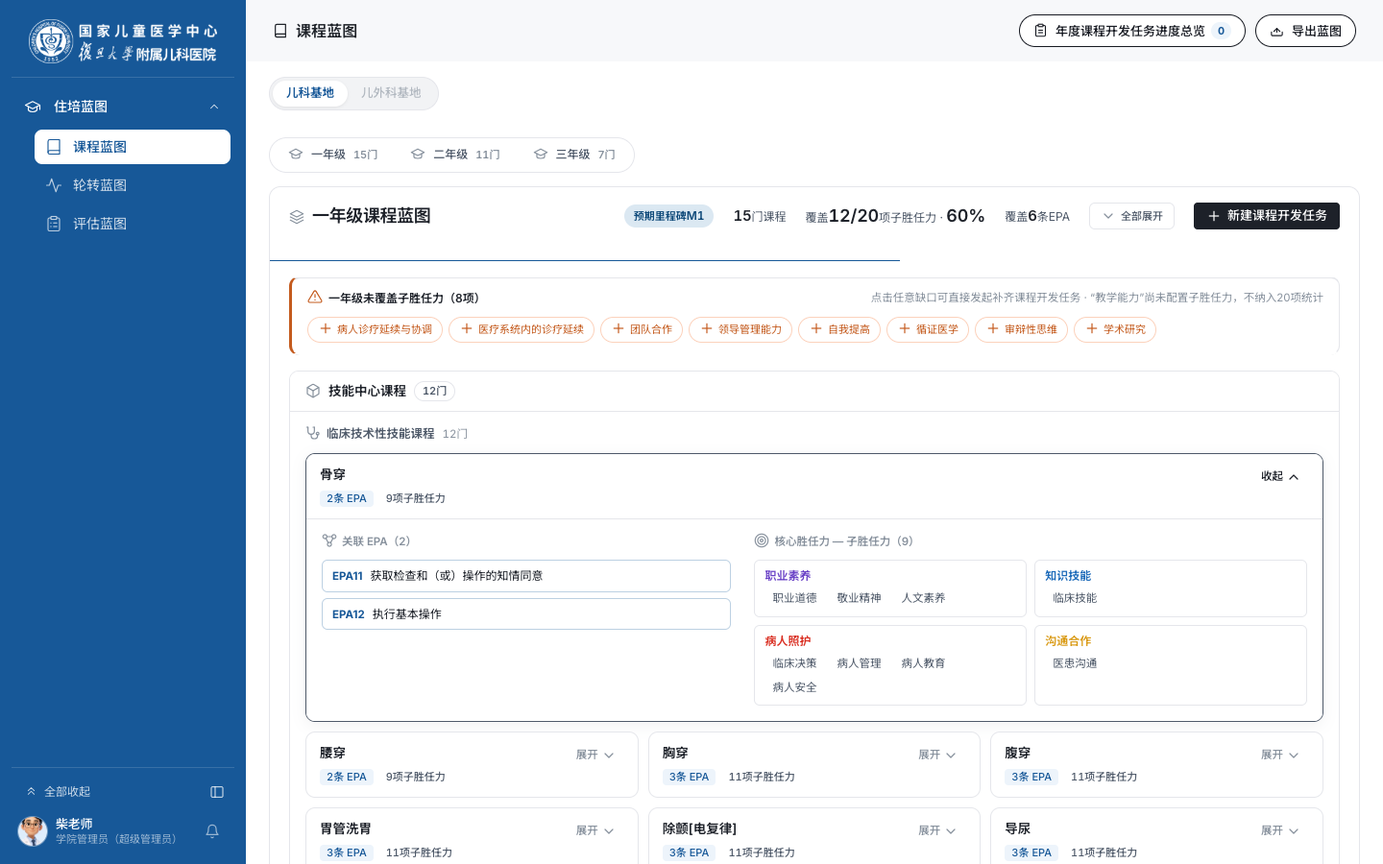
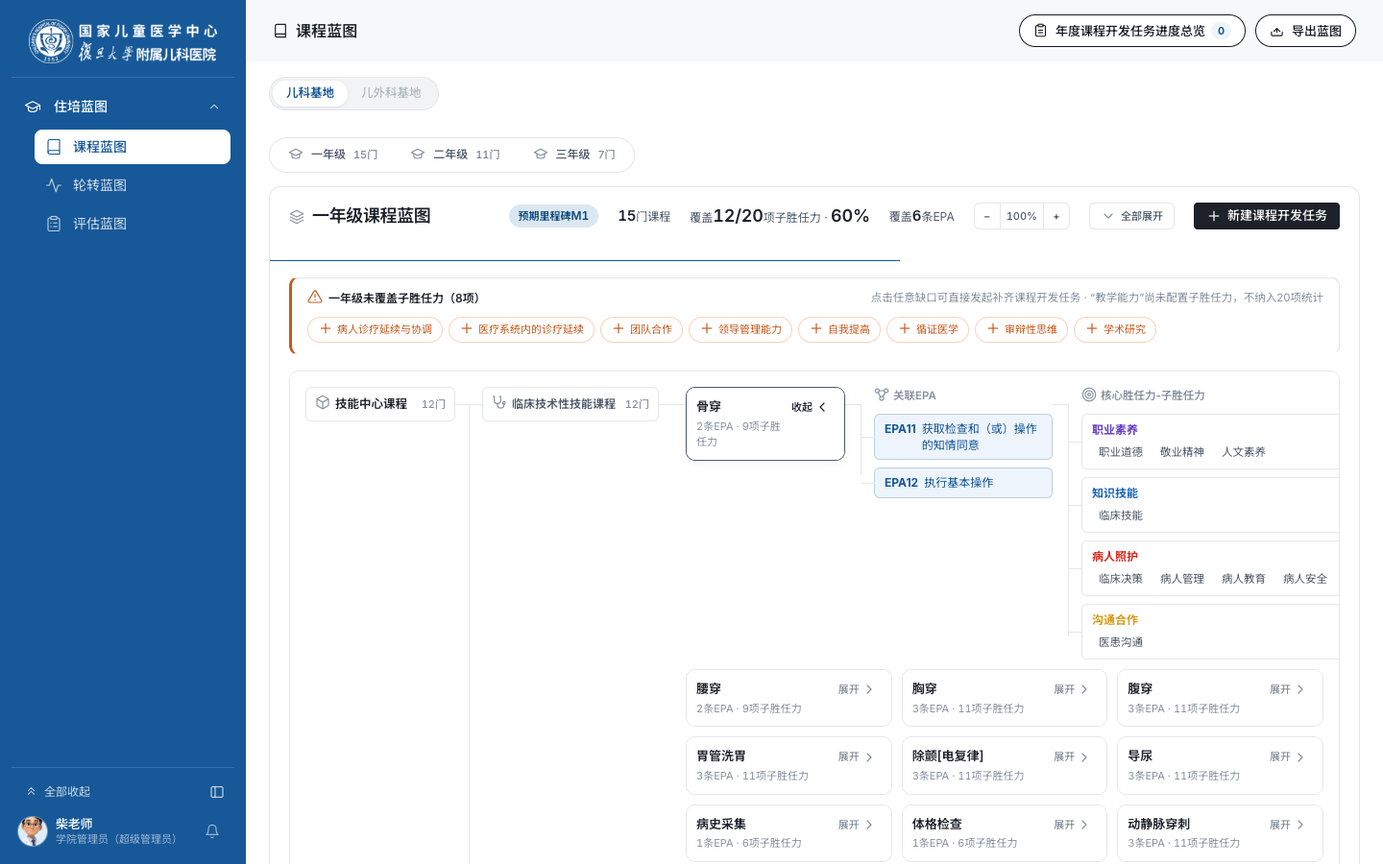
docs: 更新 2026-11-27 课程蓝图 5 级横向树状导图挤字修复与缩放优化留痕

diff --git a/修改前后对比-全量单文件汇总.html b/修改前后对比-全量单文件汇总.html
@@ -164,19 +164,11 @@ body.mode-stacked .pair-grid, body.mode-stacked .pair, body.mode-stacked .compar
       </div>
       <div class="m-card">
         <div class="m-label">全量修改与对比项</div>
-<<<<<<< HEAD
-        <div class="m-val">81<span class="m-unit">项</span></div>
+        <div class="m-val">85<span class="m-unit">项</span></div>
       </div>
       <div class="m-card">
         <div class="m-label">对比留痕截图总数</div>
-        <div class="m-val">306<span class="m-unit">张</span></div>
-=======
-        <div class="m-val">82<span class="m-unit">项</span></div>
-      </div>
-      <div class="m-card">
-        <div class="m-label">对比留痕截图总数</div>
-        <div class="m-val">297<span class="m-unit">张</span></div>
->>>>>>> ef8264ea (refactor(course-blueprint): 重构课程蓝图为纵向分组与下方双栏展开并记录2026-11-27留痕)
+        <div class="m-val">315<span class="m-unit">张</span></div>
       </div>
       <div class="m-card">
         <div class="m-label">最新更新日期</div>
@@ -190,11 +182,7 @@ body.mode-stacked .pair-grid, body.mode-stacked .pair, body.mode-stacked .compar
   <div class="toolbar-inner">
     <div class="filter-group" id="dateFilters">
       <span class="filter-label">日期：</span>
-<<<<<<< HEAD
-      <button class="chip active" data-date="all">全部日期 (83)</button>
-=======
-      <button class="chip active" data-date="all">全部日期 (82)</button>
->>>>>>> ef8264ea (refactor(course-blueprint): 重构课程蓝图为纵向分组与下方双栏展开并记录2026-11-27留痕)
+      <button class="chip active" data-date="all">全部日期 (85)</button>
       <button class="chip" data-date="2026-11-27">2026-11-27 (最新 · 7项)</button>
       <button class="chip" data-date="2026-11-26">2026-11-26 (1项)</button>
       <button class="chip" data-date="2026-11-23">2026-11-23 (7项)</button>
@@ -220,11 +208,7 @@ body.mode-stacked .pair-grid, body.mode-stacked .pair, body.mode-stacked .compar
         <button class="view-btn active" id="btnSideBySide" title="左右并排对比">并排对比</button>
         <button class="view-btn" id="btnStacked" title="上下堆叠展示">单栏聚焦</button>
       </div>
-<<<<<<< HEAD
-      <div class="stat-pill" id="counterPill">显示 83 / 83 项</div>
-=======
-      <div class="stat-pill" id="counterPill">显示 82 / 82 项</div>
->>>>>>> ef8264ea (refactor(course-blueprint): 重构课程蓝图为纵向分组与下方双栏展开并记录2026-11-27留痕)
+      <div class="stat-pill" id="counterPill">显示 85 / 85 项</div>
     </div>
   </div>
 </div>
@@ -334,7 +318,51 @@ body.mode-stacked .pair-grid, body.mode-stacked .pair, body.mode-stacked .compar
   </div>
 </article>
 
-<<<<<<< HEAD
+<article class="item-card" id="2026-11-27-sec-05" data-date="2026-11-27" data-scope="PC端" data-search="PC端 课程蓝图 住培蓝图 树状导图 横向树 缩放 展开挤压 EPA 核心胜任力 子胜任力 缺口带 pages/课程蓝图/page.js page.css">
+  <div class="item-header">
+    <div class="item-title-wrap">
+      <div class="badge-row">
+        <span class="badge-num">#05</span>
+        <span class="badge-date">2026-11-27</span>
+        <span class="badge-scope">PC端</span>
+      </div>
+      <h2 class="item-title">05. 住培蓝图 · 课程蓝图 5 级横向树状导图挤字修复与缩放优化</h2>
+      <div class="item-meta"><strong>定位路径</strong>：管理端 → 住培蓝图 → 课程蓝图（<code>pages/课程蓝图/index.html</code>）<br>
+      <strong>核心文件</strong>：<code>pages/课程蓝图/page.js</code>、<code>pages/课程蓝图/page.css</code></div>
+    </div>
+  </div>
+  <div class="item-body">
+    <div class="pair-grid">
+      <div class="pair-col">
+        <div class="col-header"><span class="tag-badge before">修改前</span> 存在问题</div>
+        <ul class="desc-list">
+          <li>采用 5 级横向思维导图并排叠加右侧 296px 覆盖提醒栏，100% 缩放（1440–1680px）下「核心胜任力-子胜任力」列被挤成 ~30px 竖条，中文逐字折行，只能靠缩小浏览器勉强查看。</li>
+          <li>课程卡使用语义错位的 iOS 滑动开关控制展开/收起，且缺少导图画布缩放能力。</li>
+        </ul>
+        <div class="img-wrap">
+          <img loading="lazy" src="2026-11-27-对比截图/课程蓝图-展开挤压与排版重构-修改前.png" alt="课程蓝图-修改前" data-cap="2026-11-27 #05 修改前 · 课程蓝图展开后核心胜任力列被挤成竖条">
+          <div class="img-caption"><span>修改前 · 100% 缩放展开后文字被挤成竖条</span></div>
+        </div>
+      </div>
+      <div class="pair-col">
+        <div class="col-header"><span class="tag-badge after">修改后</span> 改动说明（保留 5 级横向树状导图并根治挤字）</div>
+        <ul class="desc-list">
+          <li><strong>完整保留 5 级横向树状导图与连线</strong>（教学环境 → 课程类型 → 课程卡 → 关联 EPA → 核心胜任力-子胜任力），右侧 296px 覆盖提醒栏收拢为年级顶部全宽紧凑缺口带（保留点击一键派发开发任务闭环）。</li>
+          <li><strong>锁定最小可读宽度 + 新增缩放控件</strong>：1440px 100% 缩放下五级完整排开、核心胜任力列宽 <code>288px</code> 零竖折挤字，窄屏独立横向滚动；分区头新增 <code>− / 100% / +</code> 导图缩放器，课程卡改用树节点「展开 &gt; / 收起 &lt;」触发器。</li>
+        </ul>
+        <div class="img-wrap">
+          <img loading="lazy" src="2026-11-27-对比截图/课程蓝图-展开挤压与排版重构-修改后.png" alt="课程蓝图-展开态-修改后" data-cap="2026-11-27 #05 修改后 · 5级横向树状导图1440×900 100%缩放展开态">
+          <div class="img-caption"><span>修改后 · 5 级横向树状导图展开态（100% 缩放零挤字）</span></div>
+        </div>
+        <div class="img-wrap">
+          <img loading="lazy" src="2026-11-27-对比截图/课程蓝图-展开挤压与排版重构-收起态-修改后.png" alt="课程蓝图-收起态-修改后" data-cap="2026-11-27 #05 修改后 · 横向树状导图收起态 + 顶部缺口带 + 缩放控件">
+          <div class="img-caption"><span>修改后 · 树状导图收起态（含顶部缺口带与缩放控件）</span></div>
+        </div>
+      </div>
+    </div>
+  </div>
+</article>
+
 <article class="item-card" id="2026-11-27-sec-04" data-date="2026-11-27" data-scope="双端协同" data-search="选课报名 我的报名 班次 课次 文案统一 PC端 移动端 enroll-renderer-v2 tdesign-app.js 查看课次 课次人数">
   <div class="item-header">
     <div class="item-title-wrap">
@@ -346,25 +374,11 @@ body.mode-stacked .pair-grid, body.mode-stacked .pair, body.mode-stacked .compar
       <h2 class="item-title">04. 学员端选课报名 · PC 与移动端「班次」文案全部统一为「课次」</h2>
       <div class="item-meta"><strong>定位路径</strong>：学员端 PC（<code>student.html</code> → 选课报名 / 我的报名）与移动端（<code>移动端/student-tdesign.html</code> → 选课报名）<br>
       <strong>核心文件</strong>：<code>shared/js/enroll-renderer-v2.js</code>、<code>移动端/shared/tdesign-app.js</code></div>
-=======
-<article class="item-card" id="2026-11-27-sec-05" data-date="2026-11-27" data-scope="PC端" data-search="PC端 课程蓝图 住培蓝图 纵向分组 展开挤压 EPA 核心胜任力 子胜任力 缺口带 方案1 pages/课程蓝图/page.js page.css">
-  <div class="item-header">
-    <div class="item-title-wrap">
-      <div class="badge-row">
-        <span class="badge-num">#05</span>
-        <span class="badge-date">2026-11-27</span>
-        <span class="badge-scope">PC端</span>
-      </div>
-      <h2 class="item-title">05. 住培蓝图 · 课程蓝图横向挤字修复与纵向分组展开重构（方案 1）</h2>
-      <div class="item-meta"><strong>定位路径</strong>：管理端 → 住培蓝图 → 课程蓝图（<code>pages/课程蓝图/index.html</code>）<br>
-      <strong>核心文件</strong>：<code>pages/课程蓝图/page.js</code>、<code>pages/课程蓝图/page.css</code></div>
->>>>>>> ef8264ea (refactor(course-blueprint): 重构课程蓝图为纵向分组与下方双栏展开并记录2026-11-27留痕)
     </div>
   </div>
   <div class="item-body">
     <div class="pair-grid">
       <div class="pair-col">
-<<<<<<< HEAD
         <div class="col-header"><span class="tag-badge before">修改前</span> 移动端 · 班次与课次混用</div>
         <ul class="desc-list">
           <li>移动端选课卡片中普通课显示「2 个班次」、专项课（「儿童导尿术（男性）」）显示「2 个课次」，而右侧展开按钮写死「查看班次」，造成同一卡片内「左课次、右班次」割裂。</li>
@@ -412,31 +426,6 @@ body.mode-stacked .pair-grid, body.mode-stacked .pair, body.mode-stacked .compar
         <div class="img-wrap">
           <img loading="lazy" src="2026-11-27-对比截图/选课报名-PC端我的报名-修改后.png" alt="选课报名-PC端我的报名-修改后" data-cap="2026-11-27 #04 修改后 · PC 端我的报名统一为课次人数与课次说明">
           <div class="img-caption"><span>修改后 · PC 我的报名表头「课次人数」与 KPI 课次说明</span></div>
-=======
-        <div class="col-header"><span class="tag-badge before">修改前</span> 存在问题</div>
-        <ul class="desc-list">
-          <li>采用 5 级横向思维导图并排叠加右侧 296px 覆盖提醒栏，100% 缩放（1440–1680px）下「核心胜任力-子胜任力」列被挤成 ~30px 竖条，中文逐字折行，只能靠缩小浏览器勉强查看。</li>
-          <li>教学环境与课程类型长期占去左侧 400px+ 死区留白，课程卡使用语义错位的 iOS 滑动开关控制展开/收起，整体粗糙。</li>
-        </ul>
-        <div class="img-wrap">
-          <img loading="lazy" src="2026-11-27-对比截图/课程蓝图-展开挤压与排版重构-修改前.png" alt="课程蓝图-修改前" data-cap="2026-11-27 #05 修改前 · 课程蓝图展开后核心胜任力列被挤成竖条">
-          <div class="img-caption"><span>修改前 · 100% 缩放展开后文字被挤成竖条</span></div>
-        </div>
-      </div>
-      <div class="pair-col">
-        <div class="col-header"><span class="tag-badge after">修改后</span> 改动说明（方案 1）</div>
-        <ul class="desc-list">
-          <li><strong>横向降维</strong>：将「教学环境 → 课程类型」改为纵向分组头，彻底释放左侧 400px+ 空白死区；右侧 296px 覆盖提醒栏收拢为年级顶部全宽紧凑缺口带（保留点击一键派发开发任务闭环）。</li>
-          <li><strong>下方结构化展开</strong>：收起态为多列课程卡片网格（轻量折叠箭头替代 iOS 开关），展开态跨满整行并在正下方以双栏呈现「关联 EPA」与 6 域着色「核心胜任力—子胜任力」，1440px / 1280px 均零挤字、零横向溢出。</li>
-        </ul>
-        <div class="img-wrap">
-          <img loading="lazy" src="2026-11-27-对比截图/课程蓝图-展开挤压与排版重构-修改后.png" alt="课程蓝图-展开态-修改后" data-cap="2026-11-27 #05 修改后 · 1440×900 100% 缩放展开态双栏清晰呈现">
-          <div class="img-caption"><span>修改后 · 展开态（卡片下方双栏结构化映射）</span></div>
-        </div>
-        <div class="img-wrap">
-          <img loading="lazy" src="2026-11-27-对比截图/课程蓝图-展开挤压与排版重构-收起态-修改后.png" alt="课程蓝图-收起态-修改后" data-cap="2026-11-27 #05 修改后 · 纵向分组 + 顶部缺口带 + 3 列紧凑课程网格">
-          <div class="img-caption"><span>修改后 · 收起态（纵向分组 + 顶部紧凑缺口带）</span></div>
->>>>>>> ef8264ea (refactor(course-blueprint): 重构课程蓝图为纵向分组与下方双栏展开并记录2026-11-27留痕)
         </div>
       </div>
     </div>

diff --git a/修改前后对比.html b/修改前后对比.html
@@ -164,19 +164,11 @@ body.mode-stacked .pair-grid, body.mode-stacked .pair, body.mode-stacked .compar
       </div>
       <div class="m-card">
         <div class="m-label">全量修改与对比项</div>
-<<<<<<< HEAD
-        <div class="m-val">81<span class="m-unit">项</span></div>
+        <div class="m-val">85<span class="m-unit">项</span></div>
       </div>
       <div class="m-card">
         <div class="m-label">对比留痕截图总数</div>
-        <div class="m-val">306<span class="m-unit">张</span></div>
-=======
-        <div class="m-val">82<span class="m-unit">项</span></div>
-      </div>
-      <div class="m-card">
-        <div class="m-label">对比留痕截图总数</div>
-        <div class="m-val">297<span class="m-unit">张</span></div>
->>>>>>> ef8264ea (refactor(course-blueprint): 重构课程蓝图为纵向分组与下方双栏展开并记录2026-11-27留痕)
+        <div class="m-val">315<span class="m-unit">张</span></div>
       </div>
       <div class="m-card">
         <div class="m-label">最新更新日期</div>
@@ -190,11 +182,7 @@ body.mode-stacked .pair-grid, body.mode-stacked .pair, body.mode-stacked .compar
   <div class="toolbar-inner">
     <div class="filter-group" id="dateFilters">
       <span class="filter-label">日期：</span>
-<<<<<<< HEAD
-      <button class="chip active" data-date="all">全部日期 (83)</button>
-=======
-      <button class="chip active" data-date="all">全部日期 (82)</button>
->>>>>>> ef8264ea (refactor(course-blueprint): 重构课程蓝图为纵向分组与下方双栏展开并记录2026-11-27留痕)
+      <button class="chip active" data-date="all">全部日期 (85)</button>
       <button class="chip" data-date="2026-11-27">2026-11-27 (最新 · 7项)</button>
       <button class="chip" data-date="2026-11-26">2026-11-26 (1项)</button>
       <button class="chip" data-date="2026-11-23">2026-11-23 (7项)</button>
@@ -220,11 +208,7 @@ body.mode-stacked .pair-grid, body.mode-stacked .pair, body.mode-stacked .compar
         <button class="view-btn active" id="btnSideBySide" title="左右并排对比">并排对比</button>
         <button class="view-btn" id="btnStacked" title="上下堆叠展示">单栏聚焦</button>
       </div>
-<<<<<<< HEAD
-      <div class="stat-pill" id="counterPill">显示 83 / 83 项</div>
-=======
-      <div class="stat-pill" id="counterPill">显示 82 / 82 项</div>
->>>>>>> ef8264ea (refactor(course-blueprint): 重构课程蓝图为纵向分组与下方双栏展开并记录2026-11-27留痕)
+      <div class="stat-pill" id="counterPill">显示 85 / 85 项</div>
     </div>
   </div>
 </div>
@@ -334,7 +318,51 @@ body.mode-stacked .pair-grid, body.mode-stacked .pair, body.mode-stacked .compar
   </div>
 </article>
 
-<<<<<<< HEAD
+<article class="item-card" id="2026-11-27-sec-05" data-date="2026-11-27" data-scope="PC端" data-search="PC端 课程蓝图 住培蓝图 树状导图 横向树 缩放 展开挤压 EPA 核心胜任力 子胜任力 缺口带 pages/课程蓝图/page.js page.css">
+  <div class="item-header">
+    <div class="item-title-wrap">
+      <div class="badge-row">
+        <span class="badge-num">#05</span>
+        <span class="badge-date">2026-11-27</span>
+        <span class="badge-scope">PC端</span>
+      </div>
+      <h2 class="item-title">05. 住培蓝图 · 课程蓝图 5 级横向树状导图挤字修复与缩放优化</h2>
+      <div class="item-meta"><strong>定位路径</strong>：管理端 → 住培蓝图 → 课程蓝图（<code>pages/课程蓝图/index.html</code>）<br>
+      <strong>核心文件</strong>：<code>pages/课程蓝图/page.js</code>、<code>pages/课程蓝图/page.css</code></div>
+    </div>
+  </div>
+  <div class="item-body">
+    <div class="pair-grid">
+      <div class="pair-col">
+        <div class="col-header"><span class="tag-badge before">修改前</span> 存在问题</div>
+        <ul class="desc-list">
+          <li>采用 5 级横向思维导图并排叠加右侧 296px 覆盖提醒栏，100% 缩放（1440–1680px）下「核心胜任力-子胜任力」列被挤成 ~30px 竖条，中文逐字折行，只能靠缩小浏览器勉强查看。</li>
+          <li>课程卡使用语义错位的 iOS 滑动开关控制展开/收起，且缺少导图画布缩放能力。</li>
+        </ul>
+        <div class="img-wrap">
+          <img loading="lazy" src="2026-11-27-对比截图/课程蓝图-展开挤压与排版重构-修改前.png" alt="课程蓝图-修改前" data-cap="2026-11-27 #05 修改前 · 课程蓝图展开后核心胜任力列被挤成竖条">
+          <div class="img-caption"><span>修改前 · 100% 缩放展开后文字被挤成竖条</span></div>
+        </div>
+      </div>
+      <div class="pair-col">
+        <div class="col-header"><span class="tag-badge after">修改后</span> 改动说明（保留 5 级横向树状导图并根治挤字）</div>
+        <ul class="desc-list">
+          <li><strong>完整保留 5 级横向树状导图与连线</strong>（教学环境 → 课程类型 → 课程卡 → 关联 EPA → 核心胜任力-子胜任力），右侧 296px 覆盖提醒栏收拢为年级顶部全宽紧凑缺口带（保留点击一键派发开发任务闭环）。</li>
+          <li><strong>锁定最小可读宽度 + 新增缩放控件</strong>：1440px 100% 缩放下五级完整排开、核心胜任力列宽 <code>288px</code> 零竖折挤字，窄屏独立横向滚动；分区头新增 <code>− / 100% / +</code> 导图缩放器，课程卡改用树节点「展开 &gt; / 收起 &lt;」触发器。</li>
+        </ul>
+        <div class="img-wrap">
+          <img loading="lazy" src="2026-11-27-对比截图/课程蓝图-展开挤压与排版重构-修改后.png" alt="课程蓝图-展开态-修改后" data-cap="2026-11-27 #05 修改后 · 5级横向树状导图1440×900 100%缩放展开态">
+          <div class="img-caption"><span>修改后 · 5 级横向树状导图展开态（100% 缩放零挤字）</span></div>
+        </div>
+        <div class="img-wrap">
+          <img loading="lazy" src="2026-11-27-对比截图/课程蓝图-展开挤压与排版重构-收起态-修改后.png" alt="课程蓝图-收起态-修改后" data-cap="2026-11-27 #05 修改后 · 横向树状导图收起态 + 顶部缺口带 + 缩放控件">
+          <div class="img-caption"><span>修改后 · 树状导图收起态（含顶部缺口带与缩放控件）</span></div>
+        </div>
+      </div>
+    </div>
+  </div>
+</article>
+
 <article class="item-card" id="2026-11-27-sec-04" data-date="2026-11-27" data-scope="双端协同" data-search="选课报名 我的报名 班次 课次 文案统一 PC端 移动端 enroll-renderer-v2 tdesign-app.js 查看课次 课次人数">
   <div class="item-header">
     <div class="item-title-wrap">
@@ -346,25 +374,11 @@ body.mode-stacked .pair-grid, body.mode-stacked .pair, body.mode-stacked .compar
       <h2 class="item-title">04. 学员端选课报名 · PC 与移动端「班次」文案全部统一为「课次」</h2>
       <div class="item-meta"><strong>定位路径</strong>：学员端 PC（<code>student.html</code> → 选课报名 / 我的报名）与移动端（<code>移动端/student-tdesign.html</code> → 选课报名）<br>
       <strong>核心文件</strong>：<code>shared/js/enroll-renderer-v2.js</code>、<code>移动端/shared/tdesign-app.js</code></div>
-=======
-<article class="item-card" id="2026-11-27-sec-05" data-date="2026-11-27" data-scope="PC端" data-search="PC端 课程蓝图 住培蓝图 纵向分组 展开挤压 EPA 核心胜任力 子胜任力 缺口带 方案1 pages/课程蓝图/page.js page.css">
-  <div class="item-header">
-    <div class="item-title-wrap">
-      <div class="badge-row">
-        <span class="badge-num">#05</span>
-        <span class="badge-date">2026-11-27</span>
-        <span class="badge-scope">PC端</span>
-      </div>
-      <h2 class="item-title">05. 住培蓝图 · 课程蓝图横向挤字修复与纵向分组展开重构（方案 1）</h2>
-      <div class="item-meta"><strong>定位路径</strong>：管理端 → 住培蓝图 → 课程蓝图（<code>pages/课程蓝图/index.html</code>）<br>
-      <strong>核心文件</strong>：<code>pages/课程蓝图/page.js</code>、<code>pages/课程蓝图/page.css</code></div>
->>>>>>> ef8264ea (refactor(course-blueprint): 重构课程蓝图为纵向分组与下方双栏展开并记录2026-11-27留痕)
     </div>
   </div>
   <div class="item-body">
     <div class="pair-grid">
       <div class="pair-col">
-<<<<<<< HEAD
         <div class="col-header"><span class="tag-badge before">修改前</span> 移动端 · 班次与课次混用</div>
         <ul class="desc-list">
           <li>移动端选课卡片中普通课显示「2 个班次」、专项课（「儿童导尿术（男性）」）显示「2 个课次」，而右侧展开按钮写死「查看班次」，造成同一卡片内「左课次、右班次」割裂。</li>
@@ -412,31 +426,6 @@ body.mode-stacked .pair-grid, body.mode-stacked .pair, body.mode-stacked .compar
         <div class="img-wrap">
           <img loading="lazy" src="2026-11-27-对比截图/选课报名-PC端我的报名-修改后.png" alt="选课报名-PC端我的报名-修改后" data-cap="2026-11-27 #04 修改后 · PC 端我的报名统一为课次人数与课次说明">
           <div class="img-caption"><span>修改后 · PC 我的报名表头「课次人数」与 KPI 课次说明</span></div>
-=======
-        <div class="col-header"><span class="tag-badge before">修改前</span> 存在问题</div>
-        <ul class="desc-list">
-          <li>采用 5 级横向思维导图并排叠加右侧 296px 覆盖提醒栏，100% 缩放（1440–1680px）下「核心胜任力-子胜任力」列被挤成 ~30px 竖条，中文逐字折行，只能靠缩小浏览器勉强查看。</li>
-          <li>教学环境与课程类型长期占去左侧 400px+ 死区留白，课程卡使用语义错位的 iOS 滑动开关控制展开/收起，整体粗糙。</li>
-        </ul>
-        <div class="img-wrap">
-          <img loading="lazy" src="2026-11-27-对比截图/课程蓝图-展开挤压与排版重构-修改前.png" alt="课程蓝图-修改前" data-cap="2026-11-27 #05 修改前 · 课程蓝图展开后核心胜任力列被挤成竖条">
-          <div class="img-caption"><span>修改前 · 100% 缩放展开后文字被挤成竖条</span></div>
-        </div>
-      </div>
-      <div class="pair-col">
-        <div class="col-header"><span class="tag-badge after">修改后</span> 改动说明（方案 1）</div>
-        <ul class="desc-list">
-          <li><strong>横向降维</strong>：将「教学环境 → 课程类型」改为纵向分组头，彻底释放左侧 400px+ 空白死区；右侧 296px 覆盖提醒栏收拢为年级顶部全宽紧凑缺口带（保留点击一键派发开发任务闭环）。</li>
-          <li><strong>下方结构化展开</strong>：收起态为多列课程卡片网格（轻量折叠箭头替代 iOS 开关），展开态跨满整行并在正下方以双栏呈现「关联 EPA」与 6 域着色「核心胜任力—子胜任力」，1440px / 1280px 均零挤字、零横向溢出。</li>
-        </ul>
-        <div class="img-wrap">
-          <img loading="lazy" src="2026-11-27-对比截图/课程蓝图-展开挤压与排版重构-修改后.png" alt="课程蓝图-展开态-修改后" data-cap="2026-11-27 #05 修改后 · 1440×900 100% 缩放展开态双栏清晰呈现">
-          <div class="img-caption"><span>修改后 · 展开态（卡片下方双栏结构化映射）</span></div>
-        </div>
-        <div class="img-wrap">
-          <img loading="lazy" src="2026-11-27-对比截图/课程蓝图-展开挤压与排版重构-收起态-修改后.png" alt="课程蓝图-收起态-修改后" data-cap="2026-11-27 #05 修改后 · 纵向分组 + 顶部缺口带 + 3 列紧凑课程网格">
-          <div class="img-caption"><span>修改后 · 收起态（纵向分组 + 顶部紧凑缺口带）</span></div>
->>>>>>> ef8264ea (refactor(course-blueprint): 重构课程蓝图为纵向分组与下方双栏展开并记录2026-11-27留痕)
         </div>
       </div>
     </div>

diff --git a/2026-11-27-修改前后对比.html b/2026-11-27-修改前后对比.html
@@ -289,18 +289,19 @@
         <a href="2026-11-27-对比截图/课程蓝图-展开挤压与排版重构-修改前.png" target="_blank"><img alt="修改前：课程蓝图展开后核心胜任力列被挤成竖条" src="2026-11-27-对比截图/课程蓝图-展开挤压与排版重构-修改前.png"></a>
       </div>
       <div>
-        <h3>修改后 · 改动说明（方案 1）</h3>
+        <h3>修改后 · 改动说明（保留 5 级横向树状导图并根治挤字）</h3>
         <ul>
-          <li><strong>横向降维</strong>：将「教学环境 → 课程类型」改为纵向层级分组头，彻底释放左侧 400px+ 死区；右侧 296px 覆盖提醒栏收拢为年级顶部全宽紧凑缺口带（点击缺口芯片仍一键带入新建开发任务弹窗）。</li>
-          <li><strong>下方结构化展开</strong>：课程收起态呈多列卡片网格，去掉 iOS 开关改用轻量折叠箭头；展开后跨满整行，在卡片正下方以双栏呈现「关联 EPA」与按 6 域着色的「核心胜任力—子胜任力」，1440px / 1280px 下 100% 缩放均零挤字、零横向溢出。</li>
+          <li><strong>完整保留 5 级横向树状导图与拓扑连线</strong>（教学环境 → 课程类型 → 课程卡 → 关联 EPA → 核心胜任力-子胜任力），同时将右侧 296px 覆盖提醒栏收拢为年级顶部全宽紧凑缺口带（保留点击一键发起开发任务），把主画布完整宽度还给导图。</li>
+          <li><strong>精算 5 级列宽并锁定最小可读宽度</strong>：<code>教学环境 156px</code> / <code>课程类型 184px</code> 全称不截断，核心胜任力列锁定最小可读宽度（1440px 下实测宽 <code>288px</code>），100% 缩放下五级完整排开、零竖折挤字；窄屏时画布独立横向滚动。</li>
+          <li><strong>补充轻量缩放控件与交互精修</strong>：分区头新增 <code>− / 100% / +</code> 导图缩放器（支持 60%–120% 及一键重置）；课程卡去掉 iOS 滑动开关，改用更干净的树节点「展开 &gt; / 收起 &lt;」触发器并校准全部连线几何。</li>
         </ul>
-        <a href="2026-11-27-对比截图/课程蓝图-展开挤压与排版重构-修改后.png" target="_blank"><img alt="修改后：课程蓝图展开态下方双栏清晰呈现" src="2026-11-27-对比截图/课程蓝图-展开挤压与排版重构-修改后.png"></a>
+        <a href="2026-11-27-对比截图/课程蓝图-展开挤压与排版重构-修改后.png" target="_blank"><img alt="修改后：5级横向树状导图展开态100%缩放完整清晰" src="2026-11-27-对比截图/课程蓝图-展开挤压与排版重构-修改后.png"></a>
       </div>
     </div>
     <h3 style="margin-top:20px">修改后 · 默认收起态全览（1440×900 · 100% 缩放）</h3>
     <div>
-      <h4>改后 · 纵向分组 + 顶部缺口带 + 3 列紧凑课程网格</h4>
-      <a href="2026-11-27-对比截图/课程蓝图-展开挤压与排版重构-收起态-修改后.png" target="_blank"><img alt="修改后：课程蓝图收起态纵向分组网格" src="2026-11-27-对比截图/课程蓝图-展开挤压与排版重构-收起态-修改后.png"></a>
+      <h4>改后 · 树状导图收起态 + 顶部紧凑缺口带 + 导图缩放控件</h4>
+      <a href="2026-11-27-对比截图/课程蓝图-展开挤压与排版重构-收起态-修改后.png" target="_blank"><img alt="修改后：课程蓝图横向树状导图收起态" src="2026-11-27-对比截图/课程蓝图-展开挤压与排版重构-收起态-修改后.png"></a>
     </div>
   </section>
   <section id="sec-06">
